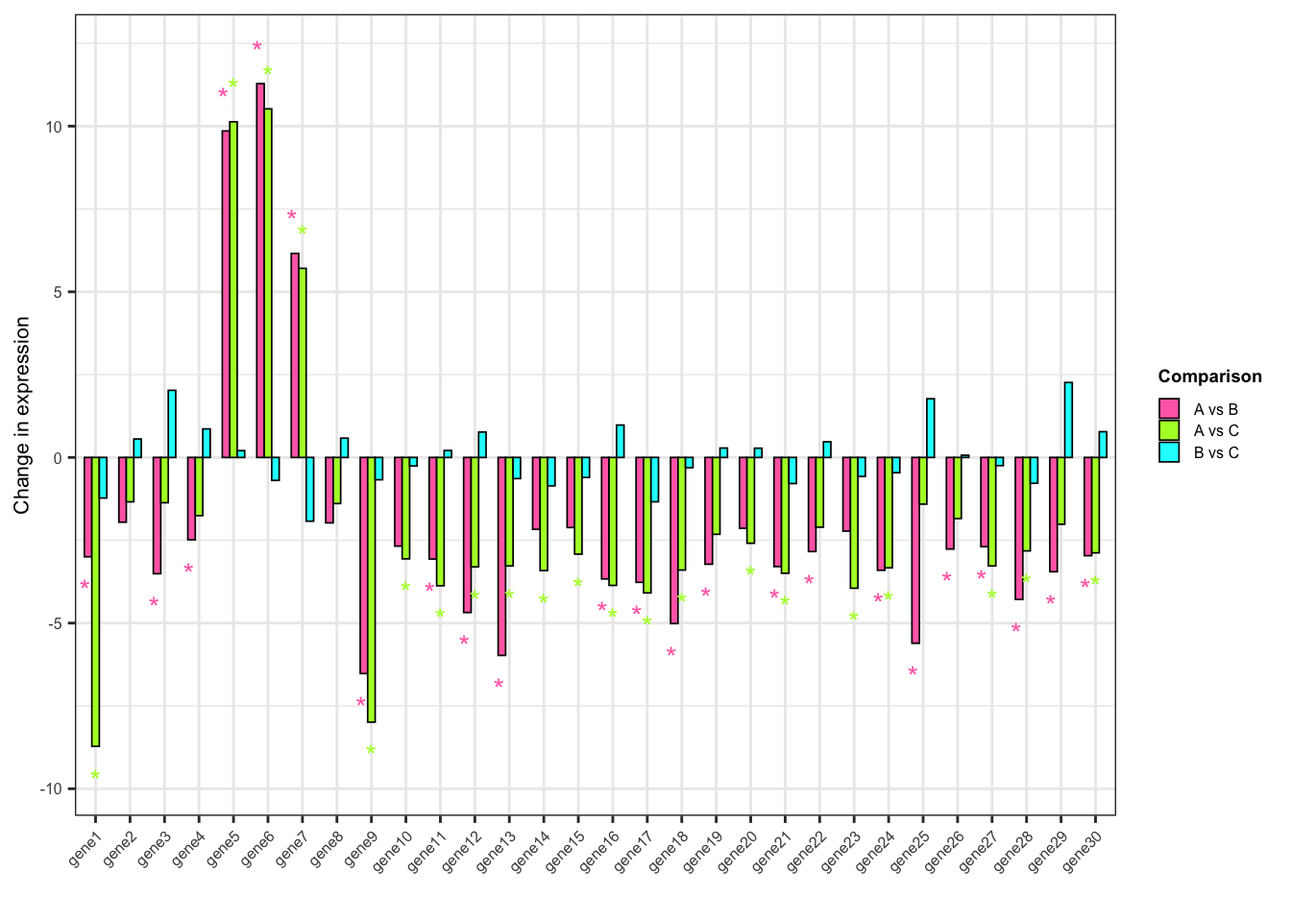
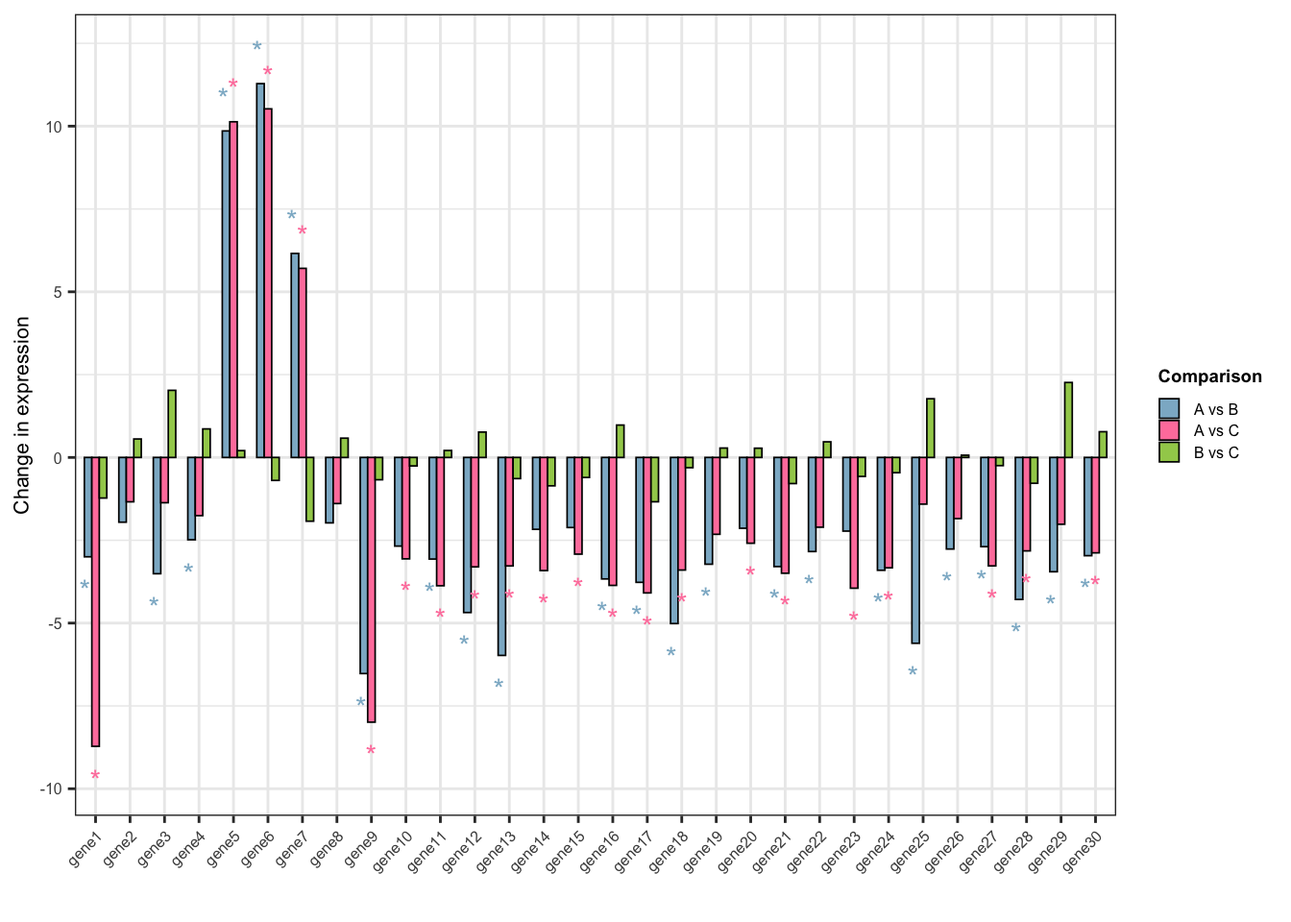
Add fig 2

Changed region(s): [[0.0625, 0.0938, 0.9375, 0.8125]]

diff --git a/docs/posts/2024-12-15-TMM_normalization/index.html b/docs/posts/2024-12-15-TMM_normalization/index.html
@@ -197,6 +197,8 @@ div.csl-indent {
   <li><a href="#introduction" id="toc-introduction" class="nav-link active" data-scroll-target="#introduction">Introduction</a></li>
   <li><a href="#what-youll-learn-here" id="toc-what-youll-learn-here" class="nav-link" data-scroll-target="#what-youll-learn-here">What you’ll learn here</a></li>
   <li><a href="#rna-seq-counts-a-sampling-artifact" id="toc-rna-seq-counts-a-sampling-artifact" class="nav-link" data-scroll-target="#rna-seq-counts-a-sampling-artifact">RNA-seq counts: a sampling artifact?</a></li>
+  <li><a href="#the-rna-composition-bias" id="toc-the-rna-composition-bias" class="nav-link" data-scroll-target="#the-rna-composition-bias">The RNA composition bias</a></li>
+  <li><a href="#more-false-positives" id="toc-more-false-positives" class="nav-link" data-scroll-target="#more-false-positives">More false positives …</a></li>
   <li><a href="#conclusion" id="toc-conclusion" class="nav-link" data-scroll-target="#conclusion">Conclusion</a></li>
   </ul>
 </nav>
@@ -399,7 +401,7 @@ Caution
 </div>
 </div>
 <p>In the above figure we are plotting the <em>t</em>-statistics per gene for each comparison, which capture the sign and size of the difference in gene expression between conditions; those expression changes that were significant (<em>p</em>-value &lt;0.05) have a “*” above the bar. Not surprisingly, genes <span style="color: #FF4500"><strong>5</strong></span>, <span style="color: #CDCD00"><strong>6</strong></span>, and <span style="color: #AB82FF"><strong>7</strong></span> have significantly higher expression in <span style="color: #FF83FA"><strong>A</strong></span> compared to the other two conditions, and the rest of the genes don’t show significant expression changes except for the false positive gene 3 in <span style="background-color: #A2CD5A"><strong>B vs C</strong></span>.</p>
-<p>Something evident but worth showing is that the sizes of the “true” libraries we just generated, vary considerably between samples. Specially samples in condition <span style="color: #FF83FA"><strong>A</strong></span> have much larger libraries because of the three genes with high expression.</p>
+<p>Something evident but worth showing is that the sizes of the “true” libraries we just generated, vary considerably between samples. Specially samples in condition <span style="color: #FF83FA"><strong>A</strong></span> have much greater libraries because of the three genes with high expression.</p>
 <div class="cell" data-layout-align="center">
 <div class="sourceCode cell-code" id="cb3"><pre class="sourceCode r code-with-copy"><code class="sourceCode r"><span id="cb3-1"><a href="#cb3-1" aria-hidden="true" tabindex="-1"></a><span class="do">## Sample library sizes and conditions</span></span>
 <span id="cb3-2"><a href="#cb3-2" aria-hidden="true" tabindex="-1"></a>library_sizes <span class="ot">&lt;-</span> <span class="fu">data.frame</span>(<span class="st">"lib_size"</span> <span class="ot">=</span> <span class="fu">apply</span>(expr, <span class="dv">2</span>, sum),</span>
@@ -427,57 +429,60 @@ Caution
 </div>
 </div>
 </div>
-<p>The differences in the total read counts per sample wouldn’t represent a major issue if we had the capacity to sequence all molecules present in each sample, just as we have been assuming. But in reality, in RNA-sequencing experiments we have a fixed number of reads per sample, meaning not all molecules can be sequenced.</p>
-<p>This introduces a proportionality property in the RNA-seq count data: the</p>
-<p><br>
-Proportionality property.</p>
-<p>Even after normalizing for library size, because of the sampling, the counts are not directly comparable: we need to account for the proportion of reads per gene after sampling.</p>
+<p>The differences in total expression between samples wouldn’t represent a major issue if we had the capacity to sequence all molecules present in each sample, just as we have been assuming. But in reality, in RNA-sequencing experiments we have a fixed number of reads per library, meaning not all molecules can be sequenced in each sample but there’s a sampling of molecules from which reads are generated. Think of it as having the pool of reads for all transcripts expressed in a sample, and having to randomly select a given number of them.</p>
+<div class="quarto-figure quarto-figure-center">
+<figure class="figure">
+<p><img src="images/read_sample.png" class="img-fluid quarto-figure quarto-figure-center figure-img" style="margin: 0px" width="700"></p>
+</figure>
+</div>
+</section>
+<section id="the-rna-composition-bias" class="level1">
+<h1>The RNA composition bias</h1>
+<p>The sampling of molecules introduces a proportionality problem in the RNA-seq count data: in those samples with more highly-expressed genes (and thus more transcripts), a higher proportion of reads will come from such genes, taking away reads for all the other genes and apparently reducing their expression, as depicted in the pre. This is known as the RNA composition or population bias. Therefore, we need to account for the proportion of reads mapping to each gene after “sampling”.</p>
+<p>In the next code we randomly select 1000 reads per sample and plot the proportion that correspond to each gene per sample.</p>
 <div class="cell" data-layout-align="center">
 <div class="sourceCode cell-code" id="cb4"><pre class="sourceCode r code-with-copy"><code class="sourceCode r"><span id="cb4-1"><a href="#cb4-1" aria-hidden="true" tabindex="-1"></a><span class="fu">library</span>(Polychrome)</span>
 <span id="cb4-2"><a href="#cb4-2" aria-hidden="true" tabindex="-1"></a></span>
-<span id="cb4-3"><a href="#cb4-3" aria-hidden="true" tabindex="-1"></a></span>
-<span id="cb4-4"><a href="#cb4-4" aria-hidden="true" tabindex="-1"></a><span class="do">## Create pool of reads per gene in each sample</span></span>
-<span id="cb4-5"><a href="#cb4-5" aria-hidden="true" tabindex="-1"></a><span class="fu">colnames</span>(expr) <span class="ot">&lt;-</span> library_sizes<span class="sc">$</span>sample</span>
-<span id="cb4-6"><a href="#cb4-6" aria-hidden="true" tabindex="-1"></a>reads_per_gene_per_sample <span class="ot">&lt;-</span> <span class="fu">apply</span>(expr, <span class="dv">2</span>, <span class="cf">function</span>(sample) {<span class="fu">rep</span>(<span class="fu">rownames</span>(expr), sample)})</span>
-<span id="cb4-7"><a href="#cb4-7" aria-hidden="true" tabindex="-1"></a></span>
-<span id="cb4-8"><a href="#cb4-8" aria-hidden="true" tabindex="-1"></a><span class="do">## Randomly select 1000 reads per sample</span></span>
-<span id="cb4-9"><a href="#cb4-9" aria-hidden="true" tabindex="-1"></a><span class="fu">set.seed</span>(<span class="dv">12242024</span>)</span>
-<span id="cb4-10"><a href="#cb4-10" aria-hidden="true" tabindex="-1"></a>reads_sample <span class="ot">&lt;-</span> <span class="fu">lapply</span>(reads_per_gene_per_sample, <span class="cf">function</span>(sample) {<span class="fu">sample</span>(sample, <span class="at">size =</span> <span class="dv">1000</span>, <span class="at">replace =</span> <span class="cn">FALSE</span>)})</span>
-<span id="cb4-11"><a href="#cb4-11" aria-hidden="true" tabindex="-1"></a></span>
-<span id="cb4-12"><a href="#cb4-12" aria-hidden="true" tabindex="-1"></a><span class="do">## Read counts per gene after sampling</span></span>
-<span id="cb4-13"><a href="#cb4-13" aria-hidden="true" tabindex="-1"></a>rna_seq_expr <span class="ot">&lt;-</span> <span class="fu">lapply</span>(reads_sample, <span class="cf">function</span>(sample){<span class="fu">table</span>(sample)[<span class="fu">rownames</span>(expr)]})</span>
-<span id="cb4-14"><a href="#cb4-14" aria-hidden="true" tabindex="-1"></a><span class="co"># lapply(rna_seq_expr, function(x){which(is.na(names(x)))})</span></span>
-<span id="cb4-15"><a href="#cb4-15" aria-hidden="true" tabindex="-1"></a></span>
-<span id="cb4-16"><a href="#cb4-16" aria-hidden="true" tabindex="-1"></a>rna_seq_expr <span class="ot">&lt;-</span> <span class="fu">do.call</span>(cbind, <span class="fu">lapply</span>(reads_sample, table))</span>
-<span id="cb4-17"><a href="#cb4-17" aria-hidden="true" tabindex="-1"></a>rna_seq_expr <span class="ot">&lt;-</span> rna_seq_expr[<span class="fu">rownames</span>(expr), ]</span>
-<span id="cb4-18"><a href="#cb4-18" aria-hidden="true" tabindex="-1"></a>rna_seq_expr_melted <span class="ot">&lt;-</span> <span class="fu">melt</span>(rna_seq_expr)</span>
-<span id="cb4-19"><a href="#cb4-19" aria-hidden="true" tabindex="-1"></a><span class="fu">colnames</span>(rna_seq_expr_melted) <span class="ot">&lt;-</span> <span class="fu">c</span>(<span class="st">"gene"</span>, <span class="st">"sample"</span>, <span class="st">"count"</span>)</span>
-<span id="cb4-20"><a href="#cb4-20" aria-hidden="true" tabindex="-1"></a>rna_seq_expr_melted <span class="ot">&lt;-</span> <span class="fu">merge</span>(rna_seq_expr_melted, library_sizes[, <span class="fu">c</span>(<span class="st">"sample"</span>, <span class="st">"Condition"</span>)], <span class="at">by =</span> <span class="st">"sample"</span>)</span>
+<span id="cb4-3"><a href="#cb4-3" aria-hidden="true" tabindex="-1"></a><span class="do">## Create pool of reads per gene in each sample</span></span>
+<span id="cb4-4"><a href="#cb4-4" aria-hidden="true" tabindex="-1"></a><span class="fu">colnames</span>(expr) <span class="ot">&lt;-</span> library_sizes<span class="sc">$</span>sample</span>
+<span id="cb4-5"><a href="#cb4-5" aria-hidden="true" tabindex="-1"></a>reads_per_gene_per_sample <span class="ot">&lt;-</span> <span class="fu">apply</span>(expr, <span class="dv">2</span>, <span class="cf">function</span>(sample) {<span class="fu">rep</span>(<span class="fu">rownames</span>(expr), sample)})</span>
+<span id="cb4-6"><a href="#cb4-6" aria-hidden="true" tabindex="-1"></a></span>
+<span id="cb4-7"><a href="#cb4-7" aria-hidden="true" tabindex="-1"></a><span class="do">## Randomly select 1000 reads per sample</span></span>
+<span id="cb4-8"><a href="#cb4-8" aria-hidden="true" tabindex="-1"></a><span class="fu">set.seed</span>(<span class="dv">12242024</span>)</span>
+<span id="cb4-9"><a href="#cb4-9" aria-hidden="true" tabindex="-1"></a>reads_sample <span class="ot">&lt;-</span> <span class="fu">lapply</span>(reads_per_gene_per_sample, <span class="cf">function</span>(sample) {<span class="fu">sample</span>(sample, <span class="at">size =</span> <span class="dv">1000</span>, <span class="at">replace =</span> <span class="cn">FALSE</span>)})</span>
+<span id="cb4-10"><a href="#cb4-10" aria-hidden="true" tabindex="-1"></a></span>
+<span id="cb4-11"><a href="#cb4-11" aria-hidden="true" tabindex="-1"></a><span class="do">## Read counts per gene after sampling</span></span>
+<span id="cb4-12"><a href="#cb4-12" aria-hidden="true" tabindex="-1"></a>rna_seq_expr <span class="ot">&lt;-</span> <span class="fu">lapply</span>(reads_sample, <span class="cf">function</span>(sample){<span class="fu">table</span>(sample)[<span class="fu">rownames</span>(expr)]})</span>
+<span id="cb4-13"><a href="#cb4-13" aria-hidden="true" tabindex="-1"></a>rna_seq_expr <span class="ot">&lt;-</span> <span class="fu">do.call</span>(cbind, <span class="fu">lapply</span>(reads_sample, table))</span>
+<span id="cb4-14"><a href="#cb4-14" aria-hidden="true" tabindex="-1"></a>rna_seq_expr <span class="ot">&lt;-</span> rna_seq_expr[<span class="fu">rownames</span>(expr), ]</span>
+<span id="cb4-15"><a href="#cb4-15" aria-hidden="true" tabindex="-1"></a>rna_seq_expr_melted <span class="ot">&lt;-</span> <span class="fu">melt</span>(rna_seq_expr)</span>
+<span id="cb4-16"><a href="#cb4-16" aria-hidden="true" tabindex="-1"></a><span class="fu">colnames</span>(rna_seq_expr_melted) <span class="ot">&lt;-</span> <span class="fu">c</span>(<span class="st">"gene"</span>, <span class="st">"sample"</span>, <span class="st">"count"</span>)</span>
+<span id="cb4-17"><a href="#cb4-17" aria-hidden="true" tabindex="-1"></a>rna_seq_expr_melted <span class="ot">&lt;-</span> <span class="fu">merge</span>(rna_seq_expr_melted, library_sizes[, <span class="fu">c</span>(<span class="st">"sample"</span>, <span class="st">"Condition"</span>)], <span class="at">by =</span> <span class="st">"sample"</span>)</span>
+<span id="cb4-18"><a href="#cb4-18" aria-hidden="true" tabindex="-1"></a></span>
+<span id="cb4-19"><a href="#cb4-19" aria-hidden="true" tabindex="-1"></a><span class="do">## Order genes for plotting</span></span>
+<span id="cb4-20"><a href="#cb4-20" aria-hidden="true" tabindex="-1"></a>rna_seq_expr_melted<span class="sc">$</span>gene <span class="ot">&lt;-</span> <span class="fu">factor</span>(rna_seq_expr_melted<span class="sc">$</span>gene, <span class="at">levels =</span> <span class="fu">paste</span>(<span class="st">"gene"</span>, <span class="dv">1</span><span class="sc">:</span><span class="dv">30</span>))</span>
 <span id="cb4-21"><a href="#cb4-21" aria-hidden="true" tabindex="-1"></a></span>
-<span id="cb4-22"><a href="#cb4-22" aria-hidden="true" tabindex="-1"></a><span class="do">## Order genes for plotting</span></span>
-<span id="cb4-23"><a href="#cb4-23" aria-hidden="true" tabindex="-1"></a>rna_seq_expr_melted<span class="sc">$</span>gene <span class="ot">&lt;-</span> <span class="fu">factor</span>(rna_seq_expr_melted<span class="sc">$</span>gene, <span class="at">levels =</span> <span class="fu">paste</span>(<span class="st">"gene"</span>, <span class="dv">1</span><span class="sc">:</span><span class="dv">30</span>))</span>
-<span id="cb4-24"><a href="#cb4-24" aria-hidden="true" tabindex="-1"></a></span>
-<span id="cb4-25"><a href="#cb4-25" aria-hidden="true" tabindex="-1"></a><span class="do">## Color palette for genes</span></span>
-<span id="cb4-26"><a href="#cb4-26" aria-hidden="true" tabindex="-1"></a><span class="fu">set.seed</span>(<span class="dv">12212024</span>)</span>
-<span id="cb4-27"><a href="#cb4-27" aria-hidden="true" tabindex="-1"></a>col_palette <span class="ot">&lt;-</span> <span class="fu">sample</span>(<span class="fu">c</span>(<span class="fu">hcl.colors</span>(<span class="dv">30</span>, <span class="at">palette =</span> <span class="st">"Pastel 1"</span>), </span>
-<span id="cb4-28"><a href="#cb4-28" aria-hidden="true" tabindex="-1"></a>                        <span class="fu">hcl.colors</span>(<span class="dv">30</span>, <span class="at">palette =</span> <span class="st">"PinkYl"</span>),</span>
-<span id="cb4-29"><a href="#cb4-29" aria-hidden="true" tabindex="-1"></a>                        <span class="fu">hcl.colors</span>(<span class="dv">30</span>, <span class="at">palette =</span> <span class="st">"Cyan-Magenta"</span>)), <span class="dv">30</span>, <span class="at">replace =</span> F)</span>
-<span id="cb4-30"><a href="#cb4-30" aria-hidden="true" tabindex="-1"></a><span class="fu">names</span>(col_palette) <span class="ot">&lt;-</span> <span class="fu">rownames</span>(expr)</span>
-<span id="cb4-31"><a href="#cb4-31" aria-hidden="true" tabindex="-1"></a>col_palette[<span class="fu">paste</span>(<span class="st">"gene"</span>, <span class="dv">5</span><span class="sc">:</span><span class="dv">7</span>)] <span class="ot">&lt;-</span> <span class="fu">c</span>(<span class="st">"orangered"</span>, <span class="st">"yellow3"</span>, <span class="st">"mediumpurple1"</span>)</span>
-<span id="cb4-32"><a href="#cb4-32" aria-hidden="true" tabindex="-1"></a>  </span>
-<span id="cb4-33"><a href="#cb4-33" aria-hidden="true" tabindex="-1"></a><span class="do">## Bar plot</span></span>
-<span id="cb4-34"><a href="#cb4-34" aria-hidden="true" tabindex="-1"></a><span class="fu">ggplot</span>(<span class="at">data =</span> rna_seq_expr_melted, <span class="fu">aes</span>(<span class="at">x =</span> sample, <span class="at">y =</span> count, <span class="at">fill =</span> gene, <span class="at">alpha =</span> gene)) <span class="sc">+</span> </span>
-<span id="cb4-35"><a href="#cb4-35" aria-hidden="true" tabindex="-1"></a>  <span class="fu">geom_bar</span>(<span class="at">stat =</span> <span class="st">"identity"</span>, <span class="at">colour =</span> <span class="st">"black"</span>, <span class="at">linewidth =</span> <span class="fl">0.2</span>) <span class="sc">+</span></span>
-<span id="cb4-36"><a href="#cb4-36" aria-hidden="true" tabindex="-1"></a>  <span class="fu">theme_bw</span>() <span class="sc">+</span> </span>
-<span id="cb4-37"><a href="#cb4-37" aria-hidden="true" tabindex="-1"></a>  <span class="fu">labs</span>(<span class="at">x =</span> <span class="st">""</span>, <span class="at">y =</span> <span class="st">"Read counts per gene after sampling"</span>, <span class="at">fill =</span> <span class="st">"Gene"</span>) <span class="sc">+</span> </span>
-<span id="cb4-38"><a href="#cb4-38" aria-hidden="true" tabindex="-1"></a>  <span class="fu">scale_fill_manual</span>(<span class="at">values =</span> col_palette) <span class="sc">+</span></span>
-<span id="cb4-39"><a href="#cb4-39" aria-hidden="true" tabindex="-1"></a>  <span class="fu">scale_alpha_manual</span>(<span class="at">values =</span> <span class="fu">rep</span>(<span class="fu">c</span>(<span class="fl">0.7</span>, <span class="dv">1</span>, <span class="fl">0.7</span>), <span class="fu">c</span>(<span class="dv">4</span>, <span class="dv">3</span>, <span class="dv">23</span>))) <span class="sc">+</span></span>
-<span id="cb4-40"><a href="#cb4-40" aria-hidden="true" tabindex="-1"></a>  <span class="fu">guides</span>(<span class="at">alpha =</span> <span class="st">"none"</span>) <span class="sc">+</span></span>
-<span id="cb4-41"><a href="#cb4-41" aria-hidden="true" tabindex="-1"></a>  <span class="fu">theme</span>(<span class="at">axis.text.x =</span> <span class="fu">element_text</span>(<span class="at">size =</span> <span class="dv">8</span>, <span class="at">angle =</span> <span class="dv">45</span>, <span class="at">hjust =</span> <span class="dv">1</span>), </span>
-<span id="cb4-42"><a href="#cb4-42" aria-hidden="true" tabindex="-1"></a>        <span class="at">legend.title =</span> <span class="fu">element_text</span>(<span class="at">face =</span> <span class="st">"bold"</span>, <span class="at">size =</span> <span class="dv">10</span>), </span>
-<span id="cb4-43"><a href="#cb4-43" aria-hidden="true" tabindex="-1"></a>        <span class="at">legend.text =</span> <span class="fu">element_text</span>(<span class="at">size =</span> <span class="dv">8</span>), </span>
-<span id="cb4-44"><a href="#cb4-44" aria-hidden="true" tabindex="-1"></a>        <span class="at">legend.key.width =</span> <span class="fu">unit</span>(<span class="fl">0.35</span>, <span class="st">"cm"</span>),</span>
-<span id="cb4-45"><a href="#cb4-45" aria-hidden="true" tabindex="-1"></a>        <span class="at">legend.key.height =</span> <span class="fu">unit</span>(<span class="fl">0.35</span>, <span class="st">"cm"</span>))</span></code><button title="Copy to Clipboard" class="code-copy-button"><i class="bi"></i></button></pre></div>
+<span id="cb4-22"><a href="#cb4-22" aria-hidden="true" tabindex="-1"></a><span class="do">## Color palette for genes</span></span>
+<span id="cb4-23"><a href="#cb4-23" aria-hidden="true" tabindex="-1"></a><span class="fu">set.seed</span>(<span class="dv">12212024</span>)</span>
+<span id="cb4-24"><a href="#cb4-24" aria-hidden="true" tabindex="-1"></a>col_palette <span class="ot">&lt;-</span> <span class="fu">sample</span>(<span class="fu">c</span>(<span class="fu">hcl.colors</span>(<span class="dv">30</span>, <span class="at">palette =</span> <span class="st">"Pastel 1"</span>), </span>
+<span id="cb4-25"><a href="#cb4-25" aria-hidden="true" tabindex="-1"></a>                        <span class="fu">hcl.colors</span>(<span class="dv">30</span>, <span class="at">palette =</span> <span class="st">"PinkYl"</span>),</span>
+<span id="cb4-26"><a href="#cb4-26" aria-hidden="true" tabindex="-1"></a>                        <span class="fu">hcl.colors</span>(<span class="dv">30</span>, <span class="at">palette =</span> <span class="st">"Cyan-Magenta"</span>)), <span class="dv">30</span>, <span class="at">replace =</span> F)</span>
+<span id="cb4-27"><a href="#cb4-27" aria-hidden="true" tabindex="-1"></a><span class="fu">names</span>(col_palette) <span class="ot">&lt;-</span> <span class="fu">rownames</span>(expr)</span>
+<span id="cb4-28"><a href="#cb4-28" aria-hidden="true" tabindex="-1"></a>col_palette[<span class="fu">paste</span>(<span class="st">"gene"</span>, <span class="dv">5</span><span class="sc">:</span><span class="dv">7</span>)] <span class="ot">&lt;-</span> <span class="fu">c</span>(<span class="st">"orangered"</span>, <span class="st">"yellow3"</span>, <span class="st">"mediumpurple1"</span>)</span>
+<span id="cb4-29"><a href="#cb4-29" aria-hidden="true" tabindex="-1"></a>  </span>
+<span id="cb4-30"><a href="#cb4-30" aria-hidden="true" tabindex="-1"></a><span class="do">## Bar plot</span></span>
+<span id="cb4-31"><a href="#cb4-31" aria-hidden="true" tabindex="-1"></a><span class="fu">ggplot</span>(<span class="at">data =</span> rna_seq_expr_melted, <span class="fu">aes</span>(<span class="at">x =</span> sample, <span class="at">y =</span> count, <span class="at">fill =</span> gene, <span class="at">alpha =</span> gene)) <span class="sc">+</span> </span>
+<span id="cb4-32"><a href="#cb4-32" aria-hidden="true" tabindex="-1"></a>  <span class="fu">geom_bar</span>(<span class="at">stat =</span> <span class="st">"identity"</span>, <span class="at">colour =</span> <span class="st">"black"</span>, <span class="at">linewidth =</span> <span class="fl">0.2</span>) <span class="sc">+</span></span>
+<span id="cb4-33"><a href="#cb4-33" aria-hidden="true" tabindex="-1"></a>  <span class="fu">theme_bw</span>() <span class="sc">+</span> </span>
+<span id="cb4-34"><a href="#cb4-34" aria-hidden="true" tabindex="-1"></a>  <span class="fu">labs</span>(<span class="at">x =</span> <span class="st">""</span>, <span class="at">y =</span> <span class="st">"Read per gene after sampling"</span>, <span class="at">fill =</span> <span class="st">"Gene"</span>) <span class="sc">+</span> </span>
+<span id="cb4-35"><a href="#cb4-35" aria-hidden="true" tabindex="-1"></a>  <span class="fu">scale_fill_manual</span>(<span class="at">values =</span> col_palette) <span class="sc">+</span></span>
+<span id="cb4-36"><a href="#cb4-36" aria-hidden="true" tabindex="-1"></a>  <span class="fu">scale_alpha_manual</span>(<span class="at">values =</span> <span class="fu">rep</span>(<span class="fu">c</span>(<span class="fl">0.7</span>, <span class="dv">1</span>, <span class="fl">0.7</span>), <span class="fu">c</span>(<span class="dv">4</span>, <span class="dv">3</span>, <span class="dv">23</span>))) <span class="sc">+</span></span>
+<span id="cb4-37"><a href="#cb4-37" aria-hidden="true" tabindex="-1"></a>  <span class="fu">guides</span>(<span class="at">alpha =</span> <span class="st">"none"</span>) <span class="sc">+</span></span>
+<span id="cb4-38"><a href="#cb4-38" aria-hidden="true" tabindex="-1"></a>  <span class="fu">theme</span>(<span class="at">axis.text.x =</span> <span class="fu">element_text</span>(<span class="at">size =</span> <span class="dv">8</span>, <span class="at">angle =</span> <span class="dv">45</span>, <span class="at">hjust =</span> <span class="dv">1</span>), </span>
+<span id="cb4-39"><a href="#cb4-39" aria-hidden="true" tabindex="-1"></a>        <span class="at">legend.title =</span> <span class="fu">element_text</span>(<span class="at">face =</span> <span class="st">"bold"</span>, <span class="at">size =</span> <span class="dv">10</span>), </span>
+<span id="cb4-40"><a href="#cb4-40" aria-hidden="true" tabindex="-1"></a>        <span class="at">legend.text =</span> <span class="fu">element_text</span>(<span class="at">size =</span> <span class="dv">8</span>), </span>
+<span id="cb4-41"><a href="#cb4-41" aria-hidden="true" tabindex="-1"></a>        <span class="at">legend.key.width =</span> <span class="fu">unit</span>(<span class="fl">0.35</span>, <span class="st">"cm"</span>),</span>
+<span id="cb4-42"><a href="#cb4-42" aria-hidden="true" tabindex="-1"></a>        <span class="at">legend.key.height =</span> <span class="fu">unit</span>(<span class="fl">0.35</span>, <span class="st">"cm"</span>))</span></code><button title="Copy to Clipboard" class="code-copy-button"><i class="bi"></i></button></pre></div>
 <div class="cell-output-display">
 <div class="quarto-figure quarto-figure-center">
 <figure class="figure">
@@ -486,11 +491,11 @@ Proportionality property.</p>
 </div>
 </div>
 </div>
-<p>In reality, however, we have a limited sequencing capacity so that not all RNAs in a sample are sequenced. A way to think about it is</p>
+<p>Clearly, in samples 1-4 of condition <span style="color: #FF83FA"><strong>A</strong></span> most of the reads go to the highly-expressed genes <span style="color: #FF4500"><strong>5</strong></span>, <span style="color: #CDCD00"><strong>6</strong></span>, and <span style="color: #AB82FF"><strong>7</strong></span>, and the read counts for the rest of genes are decreased, compared to the other samples with similar read proportions across genes. In the following heat map of counts after sampling, note the reduced expression of all non highly-expressed expressed genes in condition <span style="color: #FF83FA"><strong>A</strong></span>, while maintaining similar low expression levels for all genes in conditions <span style="color: #7CCD7C"><strong>B</strong></span> and <span style="color: #00BFFF"><strong>C</strong></span>.</p>
 <div class="cell" data-layout-align="center">
 <div class="sourceCode cell-code" id="cb5"><pre class="sourceCode r code-with-copy"><code class="sourceCode r"><span id="cb5-1"><a href="#cb5-1" aria-hidden="true" tabindex="-1"></a><span class="fu">colnames</span>(rna_seq_expr) <span class="ot">&lt;-</span> conditions</span>
 <span id="cb5-2"><a href="#cb5-2" aria-hidden="true" tabindex="-1"></a></span>
-<span id="cb5-3"><a href="#cb5-3" aria-hidden="true" tabindex="-1"></a><span class="do">## Plot</span></span>
+<span id="cb5-3"><a href="#cb5-3" aria-hidden="true" tabindex="-1"></a><span class="do">## Plot heat map</span></span>
 <span id="cb5-4"><a href="#cb5-4" aria-hidden="true" tabindex="-1"></a>col_anno <span class="ot">&lt;-</span> <span class="fu">HeatmapAnnotation</span>(</span>
 <span id="cb5-5"><a href="#cb5-5" aria-hidden="true" tabindex="-1"></a>  <span class="at">Condition =</span> <span class="fu">anno_block</span>(<span class="at">gp =</span> <span class="fu">gpar</span>(<span class="at">fill =</span> <span class="fu">c</span>(<span class="st">"orchid1"</span>, <span class="st">"palegreen1"</span>, <span class="st">"deepskyblue1"</span>), <span class="at">col =</span> <span class="st">"black"</span>), <span class="at">show_name =</span> T), </span>
 <span id="cb5-6"><a href="#cb5-6" aria-hidden="true" tabindex="-1"></a>  <span class="at">annotation_name_gp =</span>  <span class="fu">gpar</span>(<span class="at">fontsize =</span> <span class="dv">9</span>, <span class="at">fontface =</span> <span class="st">"bold"</span>))</span>
@@ -522,7 +527,11 @@ Proportionality property.</p>
 </div>
 </div>
 </div>
-<p>More false positives.</p>
+</section>
+<section id="more-false-positives" class="level1">
+<h1>More false positives …</h1>
+<p>Th</p>
+<p>As you may suspect, the decrease in the counts of genes in condition A caused by smaller proportions of reads for these genes, yield to false discoveries of differential expression.</p>
 <div class="cell" data-layout-align="center">
 <div class="sourceCode cell-code" id="cb6"><pre class="sourceCode r code-with-copy"><code class="sourceCode r"><span id="cb6-1"><a href="#cb6-1" aria-hidden="true" tabindex="-1"></a><span class="do">## Matrices to save gene p-values and t-stats</span></span>
 <span id="cb6-2"><a href="#cb6-2" aria-hidden="true" tabindex="-1"></a>pvals <span class="ot">&lt;-</span> <span class="fu">matrix</span>(<span class="at">data =</span> <span class="cn">NA</span>, <span class="at">nrow =</span> <span class="fu">nrow</span>(rna_seq_expr), <span class="at">ncol =</span> <span class="dv">3</span>)</span>
@@ -553,7 +562,7 @@ Proportionality property.</p>
 <span id="cb6-27"><a href="#cb6-27" aria-hidden="true" tabindex="-1"></a>  </span>
 <span id="cb6-28"><a href="#cb6-28" aria-hidden="true" tabindex="-1"></a>}</span>
 <span id="cb6-29"><a href="#cb6-29" aria-hidden="true" tabindex="-1"></a></span>
-<span id="cb6-30"><a href="#cb6-30" aria-hidden="true" tabindex="-1"></a><span class="do">## Plot t-stats (expression change size)</span></span>
+<span id="cb6-30"><a href="#cb6-30" aria-hidden="true" tabindex="-1"></a><span class="do">## Plot t-stats </span></span>
 <span id="cb6-31"><a href="#cb6-31" aria-hidden="true" tabindex="-1"></a>melted_pvals <span class="ot">=</span> <span class="fu">melt</span>(pvals)</span>
 <span id="cb6-32"><a href="#cb6-32" aria-hidden="true" tabindex="-1"></a>melted_tstats <span class="ot">=</span> <span class="fu">melt</span>(tstats)</span>
 <span id="cb6-33"><a href="#cb6-33" aria-hidden="true" tabindex="-1"></a></span>
@@ -563,21 +572,26 @@ Proportionality property.</p>
 <span id="cb6-37"><a href="#cb6-37" aria-hidden="true" tabindex="-1"></a></span>
 <span id="cb6-38"><a href="#cb6-38" aria-hidden="true" tabindex="-1"></a><span class="fu">ggplot</span>(data, <span class="fu">aes</span>(<span class="at">x =</span> gene, <span class="at">y =</span> t, <span class="at">fill =</span> comparison, <span class="at">color =</span> comparison)) <span class="sc">+</span> </span>
 <span id="cb6-39"><a href="#cb6-39" aria-hidden="true" tabindex="-1"></a>  <span class="fu">geom_bar</span>(<span class="at">stat =</span> <span class="st">"identity"</span>, <span class="at">position=</span><span class="st">"dodge"</span>, <span class="at">colour =</span> <span class="st">"black"</span>, <span class="at">width =</span> <span class="fl">0.65</span>, <span class="at">linewidth =</span> <span class="fl">0.3</span>) <span class="sc">+</span></span>
-<span id="cb6-40"><a href="#cb6-40" aria-hidden="true" tabindex="-1"></a>  <span class="fu">geom_text</span>(<span class="fu">aes</span>(<span class="at">x =</span> gene, <span class="at">y =</span> t <span class="sc">+</span> (<span class="fu">sign</span>(t)), <span class="at">label =</span> signif, <span class="at">group =</span> comparison, <span class="at">color =</span> comparison), </span>
-<span id="cb6-41"><a href="#cb6-41" aria-hidden="true" tabindex="-1"></a>            <span class="at">position =</span> <span class="fu">position_dodge</span>(<span class="fl">0.9</span>), <span class="at">hjust =</span> <span class="fl">0.5</span>,</span>
-<span id="cb6-42"><a href="#cb6-42" aria-hidden="true" tabindex="-1"></a>            <span class="at">show.legend =</span> F) <span class="sc">+</span></span>
-<span id="cb6-43"><a href="#cb6-43" aria-hidden="true" tabindex="-1"></a>  <span class="fu">theme_bw</span>() <span class="sc">+</span> </span>
-<span id="cb6-44"><a href="#cb6-44" aria-hidden="true" tabindex="-1"></a>  <span class="fu">labs</span>(<span class="at">x =</span> <span class="st">""</span>, <span class="at">y =</span> <span class="st">"Change in expression"</span>, <span class="at">fill =</span> <span class="st">"Comparison"</span>) <span class="sc">+</span> </span>
-<span id="cb6-45"><a href="#cb6-45" aria-hidden="true" tabindex="-1"></a>  <span class="fu">scale_fill_manual</span>(<span class="at">values =</span> <span class="fu">c</span>(<span class="st">"A_vs_B"</span> <span class="ot">=</span> <span class="st">"hotpink1"</span>, <span class="st">"A_vs_C"</span> <span class="ot">=</span> <span class="st">"greenyellow"</span>, <span class="st">"B_vs_C"</span> <span class="ot">=</span> <span class="st">"cyan1"</span>), </span>
-<span id="cb6-46"><a href="#cb6-46" aria-hidden="true" tabindex="-1"></a>                               <span class="at">labels =</span> <span class="fu">c</span>(<span class="st">"A vs B"</span>, <span class="st">"A vs C"</span>, <span class="st">"B vs C"</span>)) <span class="sc">+</span></span>
-<span id="cb6-47"><a href="#cb6-47" aria-hidden="true" tabindex="-1"></a>  <span class="fu">scale_color_manual</span>(<span class="at">values =</span> <span class="fu">c</span>(<span class="st">"A_vs_B"</span> <span class="ot">=</span> <span class="st">"hotpink1"</span>, <span class="st">"A_vs_C"</span> <span class="ot">=</span> <span class="st">"greenyellow"</span>, <span class="st">"B_vs_C"</span> <span class="ot">=</span> <span class="st">"cyan1"</span>)) <span class="sc">+</span></span>
-<span id="cb6-48"><a href="#cb6-48" aria-hidden="true" tabindex="-1"></a>  <span class="fu">theme</span>(<span class="at">axis.text.x =</span> <span class="fu">element_text</span>(<span class="at">size =</span> <span class="dv">6</span>, <span class="at">angle =</span> <span class="dv">45</span>, <span class="at">hjust =</span> <span class="dv">1</span>), </span>
-<span id="cb6-49"><a href="#cb6-49" aria-hidden="true" tabindex="-1"></a>        <span class="at">axis.title.y =</span> <span class="fu">element_text</span>(<span class="at">size =</span> <span class="dv">8</span>), </span>
-<span id="cb6-50"><a href="#cb6-50" aria-hidden="true" tabindex="-1"></a>        <span class="at">axis.text.y =</span> <span class="fu">element_text</span>(<span class="at">size =</span> <span class="dv">6</span>), </span>
-<span id="cb6-51"><a href="#cb6-51" aria-hidden="true" tabindex="-1"></a>        <span class="at">legend.title =</span> <span class="fu">element_text</span>(<span class="at">face =</span> <span class="st">"bold"</span>, <span class="at">size =</span> <span class="dv">7</span>), </span>
-<span id="cb6-52"><a href="#cb6-52" aria-hidden="true" tabindex="-1"></a>        <span class="at">legend.text =</span> <span class="fu">element_text</span>(<span class="at">size =</span> <span class="dv">6</span>), </span>
-<span id="cb6-53"><a href="#cb6-53" aria-hidden="true" tabindex="-1"></a>        <span class="at">legend.key.width =</span> <span class="fu">unit</span>(<span class="fl">0.3</span>, <span class="st">"cm"</span>),</span>
-<span id="cb6-54"><a href="#cb6-54" aria-hidden="true" tabindex="-1"></a>        <span class="at">legend.key.height =</span> <span class="fu">unit</span>(<span class="fl">0.3</span>, <span class="st">"cm"</span>))</span></code><button title="Copy to Clipboard" class="code-copy-button"><i class="bi"></i></button></pre></div>
+<span id="cb6-40"><a href="#cb6-40" aria-hidden="true" tabindex="-1"></a>  <span class="fu">geom_text</span>(<span class="fu">aes</span>(<span class="at">x =</span> gene, <span class="at">y =</span> t <span class="sc">+</span> (<span class="fu">sign</span>(t)), <span class="at">label =</span> signif, </span>
+<span id="cb6-41"><a href="#cb6-41" aria-hidden="true" tabindex="-1"></a>                <span class="at">group =</span> comparison, <span class="at">color =</span> comparison), </span>
+<span id="cb6-42"><a href="#cb6-42" aria-hidden="true" tabindex="-1"></a>            <span class="at">position =</span> <span class="fu">position_dodge</span>(<span class="fl">0.9</span>), <span class="at">hjust =</span> <span class="fl">0.5</span>,</span>
+<span id="cb6-43"><a href="#cb6-43" aria-hidden="true" tabindex="-1"></a>            <span class="at">show.legend =</span> F) <span class="sc">+</span></span>
+<span id="cb6-44"><a href="#cb6-44" aria-hidden="true" tabindex="-1"></a>  <span class="fu">theme_bw</span>() <span class="sc">+</span> </span>
+<span id="cb6-45"><a href="#cb6-45" aria-hidden="true" tabindex="-1"></a>  <span class="fu">labs</span>(<span class="at">x =</span> <span class="st">""</span>, <span class="at">y =</span> <span class="st">"Change in expression"</span>, <span class="at">fill =</span> <span class="st">"Comparison"</span>) <span class="sc">+</span> </span>
+<span id="cb6-46"><a href="#cb6-46" aria-hidden="true" tabindex="-1"></a>  <span class="fu">scale_fill_manual</span>(<span class="at">values =</span> <span class="fu">c</span>(<span class="st">"A_vs_B"</span> <span class="ot">=</span> <span class="st">"#8DB6CD"</span>, </span>
+<span id="cb6-47"><a href="#cb6-47" aria-hidden="true" tabindex="-1"></a>                               <span class="st">"A_vs_C"</span> <span class="ot">=</span> <span class="st">"#FF82AB"</span>, </span>
+<span id="cb6-48"><a href="#cb6-48" aria-hidden="true" tabindex="-1"></a>                               <span class="st">"B_vs_C"</span> <span class="ot">=</span> <span class="st">"#A2CD5A"</span>), </span>
+<span id="cb6-49"><a href="#cb6-49" aria-hidden="true" tabindex="-1"></a>                               <span class="at">labels =</span> <span class="fu">c</span>(<span class="st">"A vs B"</span>, <span class="st">"A vs C"</span>, <span class="st">"B vs C"</span>)) <span class="sc">+</span></span>
+<span id="cb6-50"><a href="#cb6-50" aria-hidden="true" tabindex="-1"></a>  <span class="fu">scale_color_manual</span>(<span class="at">values =</span> <span class="fu">c</span>(<span class="st">"A_vs_B"</span> <span class="ot">=</span> <span class="st">"#8DB6CD"</span>, </span>
+<span id="cb6-51"><a href="#cb6-51" aria-hidden="true" tabindex="-1"></a>                                <span class="st">"A_vs_C"</span> <span class="ot">=</span> <span class="st">"#FF82AB"</span>, </span>
+<span id="cb6-52"><a href="#cb6-52" aria-hidden="true" tabindex="-1"></a>                                <span class="st">"B_vs_C"</span> <span class="ot">=</span> <span class="st">"#A2CD5A"</span>)) <span class="sc">+</span></span>
+<span id="cb6-53"><a href="#cb6-53" aria-hidden="true" tabindex="-1"></a>  <span class="fu">theme</span>(<span class="at">axis.text.x =</span> <span class="fu">element_text</span>(<span class="at">size =</span> <span class="dv">6</span>, <span class="at">angle =</span> <span class="dv">45</span>, <span class="at">hjust =</span> <span class="dv">1</span>), </span>
+<span id="cb6-54"><a href="#cb6-54" aria-hidden="true" tabindex="-1"></a>        <span class="at">axis.title.y =</span> <span class="fu">element_text</span>(<span class="at">size =</span> <span class="dv">8</span>), </span>
+<span id="cb6-55"><a href="#cb6-55" aria-hidden="true" tabindex="-1"></a>        <span class="at">axis.text.y =</span> <span class="fu">element_text</span>(<span class="at">size =</span> <span class="dv">6</span>), </span>
+<span id="cb6-56"><a href="#cb6-56" aria-hidden="true" tabindex="-1"></a>        <span class="at">legend.title =</span> <span class="fu">element_text</span>(<span class="at">face =</span> <span class="st">"bold"</span>, <span class="at">size =</span> <span class="dv">7</span>), </span>
+<span id="cb6-57"><a href="#cb6-57" aria-hidden="true" tabindex="-1"></a>        <span class="at">legend.text =</span> <span class="fu">element_text</span>(<span class="at">size =</span> <span class="dv">6</span>), </span>
+<span id="cb6-58"><a href="#cb6-58" aria-hidden="true" tabindex="-1"></a>        <span class="at">legend.key.width =</span> <span class="fu">unit</span>(<span class="fl">0.3</span>, <span class="st">"cm"</span>),</span>
+<span id="cb6-59"><a href="#cb6-59" aria-hidden="true" tabindex="-1"></a>        <span class="at">legend.key.height =</span> <span class="fu">unit</span>(<span class="fl">0.3</span>, <span class="st">"cm"</span>))</span></code><button title="Copy to Clipboard" class="code-copy-button"><i class="bi"></i></button></pre></div>
 <div class="cell-output-display">
 <div class="quarto-figure quarto-figure-center">
 <figure class="figure">

diff --git a/docs/blog.html b/docs/blog.html
@@ -273,7 +273,7 @@ Daianna Gonzalez-Padilla
 </a>
 </div>
 </div>
-<div class="quarto-post image-right" data-index="1" data-categories="Normalization,RNA composition bias,Trimmed Mean of M-values,Highly-expressed genes,Differential Gene Expression,RNA-seq" data-listing-date-sort="1733961600000" data-listing-file-modified-sort="1735139077834" data-listing-date-modified-sort="NaN" data-listing-reading-time-sort="14" data-listing-word-count-sort="2767">
+<div class="quarto-post image-right" data-index="1" data-categories="Normalization,RNA composition bias,Trimmed Mean of M-values,Highly-expressed genes,Differential Gene Expression,RNA-seq" data-listing-date-sort="1733961600000" data-listing-file-modified-sort="1735169674110" data-listing-date-modified-sort="NaN" data-listing-reading-time-sort="16" data-listing-word-count-sort="3101">
 <div class="thumbnail">
 <p><a href="./posts/2024-12-15-TMM_normalization/index.html" class="no-external"></a></p><a href="./posts/2024-12-15-TMM_normalization/index.html" class="no-external">
 <p><img src="./posts/2024-12-15-TMM_normalization/images/TODO" class="thumbnail-image"></p>

diff --git a/docs/posts/2024-07-16-MAGMA/index.html b/docs/posts/2024-07-16-MAGMA/index.html
@@ -183,10 +183,6 @@ window.Quarto = {
     <a class="nav-link" href="../../blog.html"> 
 <span class="menu-text">Blog</span></a>
   </li>  
-  <li class="nav-item">
-    <a class="nav-link" href="../../materials.qmd"> 
-<span class="menu-text">Other materials</span></a>
-  </li>  
   <li class="nav-item compact">
     <a class="nav-link" href="https://daianna21.github.io"> <i class="bi bi-github" role="img">
 </i> 
